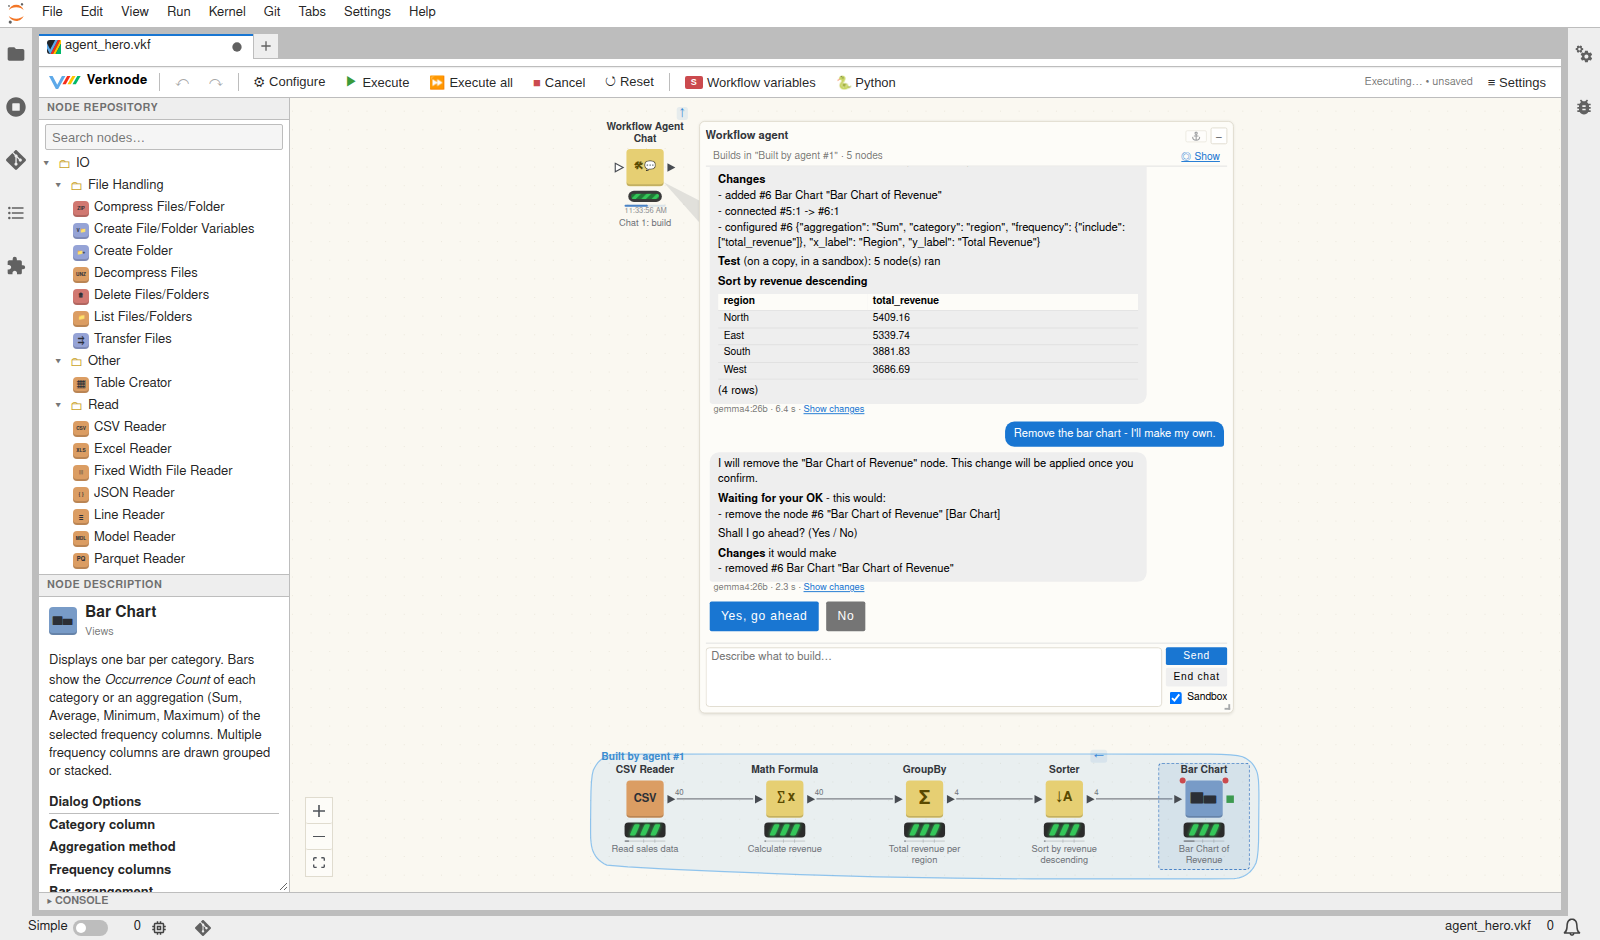
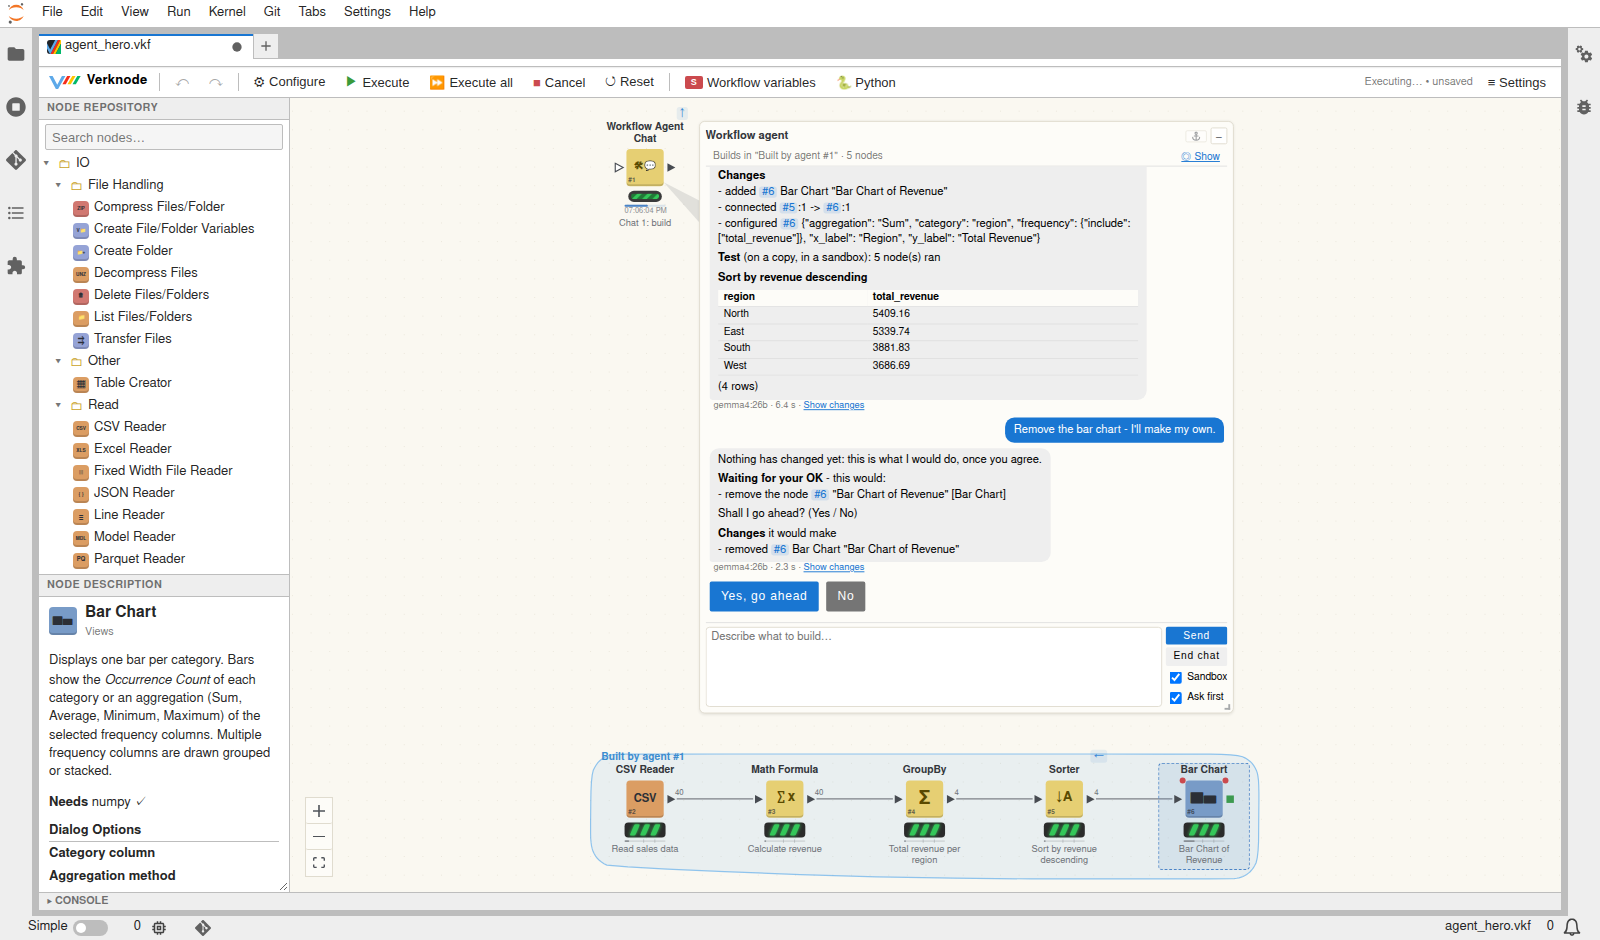
Node numbers on the canvas, and node references in chats that show the node and its data
- Each node shows its number (#id) small in the corner of its icon: chats and agents refer to nodes by it
- #id / @#id in chat messages (and Text Display) are links: hover flashes the node and shows its output in
  an inspection widget beside the chat, its tail pointing to the node; a click selects the node (moving the
  view only if it is off screen) and keeps the inspection widget
- Hero screenshots retaken with the node numbers; the Data Q&A one shows a hovered reference

Changed region(s): [[0.4375, 0.1851, 0.7812, 0.7096], [0.0312, 0.833, 0.125, 0.9564], [0.7188, 0.6479, 0.7812, 0.7404]]

diff --git a/extension/src/editor/Editor.tsx b/extension/src/editor/Editor.tsx
@@ -558,7 +558,10 @@ function EditorCanvas({ controller, settings }: { controller: WorkflowController
   const flashing = useRef<Set<string>>(new Set()); // (nodes a display points at: canvasLink.highlight)
   // inspection widgets (Inspector.tsx): the one shown while a port is hovered ("peek") and kept ones
   const [inspections, setInspections] = useState<Inspection[]>([]);
-  const inspectRef = useRef<(node: number, kind: 'in' | 'out', port: number, action: 'enter' | 'leave' | 'pin') => void>();
+  const inspectRef = useRef<
+    (node: number, kind: 'in' | 'out', port: number, action: 'enter' | 'leave' | 'pin', near?: { x: number; y: number; w: number }) => void
+  >();
+  const inspectNodeRef = useRef<(node: number | null, pin?: boolean, near?: DOMRect) => void>();
   const tails = useMemo(() => new TailStore(), []);
   // selected canvas widgets (marquee, Ctrl+click, or with their nodes unless anchored)
   const widgetSel = useMemo(() => new WidgetSelection(), []);
@@ -953,10 +956,21 @@ function EditorCanvas({ controller, settings }: { controller: WorkflowController
           .filter(id => id !== except && byNode.has(id))
           .map(id => ({ id, name: byNode.get(id)!.name, label: byNode.get(id)!.annotation }));
       },
-      highlight: ids => {
+      node: id => {
+        const n = viewRef.current?.nodes.find(x => x.id === id);
+        return n ? { id, name: n.name, label: n.annotation } : null;
+      },
+      inspect: (id, pin, near) => inspectNodeRef.current?.(id, pin, near),
+      highlight: (ids, fit = true) => {
+        const hidden = (id: number) => {
+          const el = wrapper.current?.querySelector(`.react-flow__node[data-id="${id}"]`)?.getBoundingClientRect();
+          const box = wrapper.current?.getBoundingClientRect();
+          return !el || !box || el.right < box.left || el.left > box.right || el.bottom < box.top || el.top > box.bottom;
+        };
         const want = new Set(ids.map(String));
         flashing.current = want;
-        setNodes(ns => ns.map(n => ({ ...n, selected: want.has(n.id), className: want.has(n.id) ? 'verknode-flash' : undefined })));
+        // (fit false: a hover - only the flash, the selection stays)
+        setNodes(ns => ns.map(n => ({ ...n, selected: fit ? want.has(n.id) : n.selected, className: want.has(n.id) ? 'verknode-flash' : undefined })));
         window.setTimeout(() => {
           if (flashing.current === want) {
             flashing.current = new Set();
@@ -964,7 +978,7 @@ function EditorCanvas({ controller, settings }: { controller: WorkflowController
           }
         }, 2600);
         const shown = ids.filter(id => flow.getNode(String(id)));
-        if (shown.length) {
+        if (shown.length && (fit === true || (fit === 'if-hidden' && shown.some(hidden)))) {
           void flow.fitView({ nodes: shown.map(id => ({ id: String(id) })), padding: 0.4, maxZoom: 1, duration: 500 });
         }
       }
@@ -1775,7 +1789,7 @@ function EditorCanvas({ controller, settings }: { controller: WorkflowController
     window.clearTimeout(hideTimer.current);
     hideTimer.current = window.setTimeout(() => setInspections(list => list.filter(i => i.pinned)), delay);
   };
-  inspectRef.current = (node, kind, port, action) => {
+  inspectRef.current = (node, kind, port, action, near) => {
     window.clearTimeout(peekTimer.current);
     if (action === 'leave') {
       hidePeek();
@@ -1788,10 +1802,18 @@ function EditorCanvas({ controller, settings }: { controller: WorkflowController
       return;
     }
     const here = portPoint(flow, node, kind, port);
-    // (a free spot by the port: not over nodes, canvas widgets or other inspection widgets)
-    const at = here
-      ? place(here, kind === 'out' ? 'right' : 'left', { w: INSPECT_W, h: INSPECT_H }, obstacles(flow, wrapper.current, []))
-      : { x: 0, y: 0 };
+    // (a free spot by the port - or by what points at the node, e.g. a chat: near, its box on the screen,
+    // in canvas coordinates - not over nodes, canvas widgets or other inspection widgets)
+    const taken = obstacles(flow, wrapper.current, []);
+    const size = { w: INSPECT_W, h: INSPECT_H };
+    let at = here ? place(here, kind === 'out' ? 'right' : 'left', size, taken) : { x: 0, y: 0 };
+    if (near) {
+      // left of it if that is in view, else right of it
+      const box = wrapper.current?.getBoundingClientRect();
+      const left = box ? flow.screenToFlowPosition({ x: box.left, y: box.top }).x : -Infinity;
+      const l = place({ x: near.x, y: near.y }, 'left', size, taken);
+      at = l.x + INSPECT_W <= near.x && l.x >= left ? l : place({ x: near.x + near.w, y: near.y }, 'right', size, taken);
+    }
     const same = (i: Inspection) => i.node === src.node && i.port === src.port;
     if (action === 'pin') {
       window.clearTimeout(hideTimer.current);
@@ -1814,6 +1836,21 @@ function EditorCanvas({ controller, settings }: { controller: WorkflowController
         ]),
       350
     );
+  };
+  // a display pointing at a node (a #id in a chat): a look at its first output while hovered, kept on a click
+  inspectNodeRef.current = (id, pin, near) => {
+    const info = id === null ? undefined : rawView?.nodes.find(n => n.id === id);
+    const port = info?.outPorts.find(p => !p.implicit)?.index;
+    if (id === null || !info || port === undefined) {
+      hidePeek();
+      return;
+    }
+    // (near: the box of what points at it on the screen - the widget is put beside it, where it can be seen)
+    const box = near && {
+      ...flow.screenToFlowPosition({ x: near.left, y: near.top }),
+      w: flow.screenToFlowPosition({ x: near.right, y: near.top }).x - flow.screenToFlowPosition({ x: near.left, y: near.top }).x
+    };
+    inspectRef.current?.(id, 'out', port, pin ? 'pin' : 'enter', box || undefined);
   };
   /** Kept inspection widgets for the outputs of these nodes (executed ones), right of each node. */
   const inspectNodes = (ids: number[]) => {

diff --git a/extension/src/editor/widgets/chat.tsx b/extension/src/editor/widgets/chat.tsx
@@ -395,12 +395,52 @@ function Blocks({ text }: { text: string }) {
   );
 }
 
+/**
+ * A node a message refers to (#id, @#id): hovering it makes the node flash and shows its output data
+ * (an inspection widget); a click brings the node into view and keeps the inspection widget.
+ */
+/** Where a look at a node goes: beside the canvas widget of the element (at its height). */
+const beside = (el: Element) => {
+  const dock = (el.closest('.verknode-widget-dock') ?? el).getBoundingClientRect();
+  const at = el.getBoundingClientRect();
+  return new DOMRect(dock.left, at.top - 20, dock.width, at.height);
+};
+
+function NodeChip({ text, id }: { text: string; id: number }) {
+  const link = useContext(CanvasLinkContext);
+  const node = link?.node(id);
+  if (!link || !node) {
+    return <>{text}</>;
+  }
+  return (
+    <span
+      className="verknode-node-chip"
+      role="button"
+      title={`${node.label || node.name} (#${id}) - click: select it and keep the look at its data`}
+      onMouseEnter={e => {
+        link.highlight([id], false);
+        link.inspect(id, false, beside(e.currentTarget));
+      }}
+      onMouseLeave={() => link.inspect(null)}
+      onClick={e => {
+        e.stopPropagation();
+        link.inspect(id, true, beside(e.currentTarget));
+        link.highlight([id], 'if-hidden');
+      }}
+    >
+      {text}
+    </span>
+  );
+}
+
 function Inline({ text }: { text: string }) {
-  const parts = text.split(/(`[^`]+`|\*\*[^*]+\*\*)/g);
+  const parts = text.split(/(`[^`]+`|\*\*[^*]+\*\*|(?<![\w#&])@?#\d+(?!\w))/g);
   return (
     <>
       {parts.map((p, i) =>
-        p.startsWith('`') && p.endsWith('`') && p.length > 1 ? (
+        /^@?#\d+$/.test(p) ? (
+          <NodeChip key={i} text={p} id={Number(p.replace(/^@?#/, ''))} />
+        ) : p.startsWith('`') && p.endsWith('`') && p.length > 1 ? (
           <code key={i}>{p.slice(1, -1)}</code>
         ) : p.startsWith('**') && p.endsWith('**') && p.length > 4 ? (
           <b key={i}>{p.slice(2, -2)}</b>

diff --git a/extension/style/base.css b/extension/style/base.css
@@ -363,6 +363,21 @@
   opacity: 0.55;
 }
 
+/* the node's number (#id), small at the icon's bottom left: chats and agents refer to nodes by it */
+.verknode-node-id {
+  position: absolute;
+  left: 2px;
+  bottom: 2px;
+  font-size: 7px;
+  font-weight: 600;
+  line-height: 1;
+  color: var(--vk-icon-text, #fff);
+  opacity: 0.7;
+  pointer-events: none;
+  white-space: nowrap;
+  font-variant-numeric: tabular-nums;
+}
+
 .verknode-node-badge {
   position: absolute;
   right: -7px;
@@ -3961,4 +3976,19 @@
   margin-right: 5px;
   border-radius: 50%;
   vertical-align: -1px;
+}
+
+/* a node a chat message refers to (#id): hover shows it, click brings it into view */
+.verknode-node-chip {
+  padding: 0 3px;
+  border-radius: 3px;
+  background: color-mix(in srgb, var(--jp-brand-color1) 12%, transparent);
+  color: var(--jp-brand-color1);
+  font-variant-numeric: tabular-nums;
+  cursor: pointer;
+  white-space: nowrap;
+}
+
+.verknode-node-chip:hover {
+  background: color-mix(in srgb, var(--jp-brand-color1) 24%, transparent);
 }

diff --git a/extension/src/editor/widgets/registry.ts b/extension/src/editor/widgets/registry.ts
@@ -48,8 +48,14 @@ export interface CanvasNodeRef {
 export interface CanvasLink {
   /** the nodes selected on the canvas lately - before the display was clicked (without `except`) */
   selection: (except?: number) => CanvasNodeRef[];
-  /** show these nodes: select them, bring them into view and make them flash */
-  highlight: (ids: number[]) => void;
+  /** show these nodes: select them, bring them into view and make them flash (fit 'if-hidden': move the
+   * view only if one is out of it; false: only the flash) */
+  highlight: (ids: number[], fit?: boolean | 'if-hidden') => void;
+  /** a node of the canvas by its number (#id), or null */
+  node: (id: number) => CanvasNodeRef | null;
+  /** a look at a node's output data (inspection widget) while hovered (null: gone); pin: kept; near:
+   * the screen box of what points at it (the widget goes beside it) */
+  inspect: (id: number | null, pin?: boolean, near?: DOMRect) => void;
 }
 
 export const CanvasLinkContext = React.createContext<CanvasLink | null>(null);

diff --git a/extension/src/editor/NodeView.tsx b/extension/src/editor/NodeView.tsx
@@ -397,6 +397,9 @@ export const WorkflowNode = memo(({ data, selected, positionAbsoluteX, positionA
       <div className="verknode-node-name">{n.name}</div>
       <div className="verknode-node-body">
         <NodeIcon nodeType={n.nodeType} icon={n.icon} category={n.category} />
+        <span className="verknode-node-id">
+          #{n.id}
+        </span>
         {implicitIn && (
           <PortHandle
             kind="target"

diff --git a/docs/llm.md b/docs/llm.md
@@ -162,6 +162,14 @@ box: it offers the selection, and **Tab** adds it to the message as `@#4
 @#7`. The agent then gets those nodes' details (settings, columns), so you
 can write "@#4 as a bar chart" or "why does @#9 fail?".
 
+Each node shows its number small in the corner of its icon (#4), so you can
+see which node a message means. In the chat, a node number (#7, @#7) is a
+link:
+- **hover** it: the node flashes, and an inspection widget beside the chat
+  shows its output, with its tail pointing to the node;
+- **click** it: the node is selected (and brought into view if it is off
+  screen), and the inspection widget stays.
+
 **See where it works.** The bar at the top of the chat names the agent's
 group. **◎ Show** highlights its nodes on the canvas: it selects them,
 brings them into view and makes them flash. **Show changes** under a reply
@@ -285,7 +293,9 @@ from. Nothing in the workflow changes.
 Run the workflow first; the nodes connected to it run when it starts. The
 conversation stays, as with the agent: *Resume chat* goes on with it, and
 *New chat* starts again. Tab adds the nodes selected on the canvas, so
-"@#7 which product sold least?" asks about their tables. *Guidance* tells
+"@#7 which product sold least?" asks about their tables. The node numbers
+in its answers ("from the per_region table (node #7)") are links too: hover
+one to see that table. *Guidance* tells
 it what the columns mean, the currency, and so on.
 
 ## A summary by a prompt: LLM Summarizer

diff --git a/README.md b/README.md
@@ -113,10 +113,11 @@ that takes the conversation as input:
 
 **Ask about the results**: a Data Q&A Chat answers questions about the
 workflow's tables. The model computes every number it gives with SQL over
-them, and says which node the answer comes from. An LLM Summarizer turns
+them, and says which node the answer comes from: hover the node number
+(#6) for a look at its table, click it to keep the look. An LLM Summarizer turns
 tables into a summary by a prompt, shown in a Text Display:
 
-![A Data Q&A Chat next to a sales workflow: which region did best against its target (East, 267%), North's revenue share of headlamps (60.13%), the product with the fewest units (Shoes, 24), each with a small table and its source node; above, an LLM summary for the regional managers in a Text Display](docs/images/data-chat-v1.png)
+![A Data Q&A Chat next to a sales workflow: which region did best against its target (East, 267%), North's revenue share of headlamps (60.13%), the product with the fewest units (Shoes, 24), each with a small table and its source node; the pointer on node #6 in an answer shows that node's table beside the chat; above, an LLM summary for the regional managers in a Text Display](docs/images/data-chat-v1.png)
 
 **Web services, maps and diagrams**: ask Wikipedia, OpenStreetMap, weather,
 podcast, ChEMBL, PDB, Ensembl or Gene Ontology services for every row of a

diff --git a/docs/editor.md b/docs/editor.md
@@ -36,6 +36,9 @@ Create one from the Launcher ("Workflow") or the command palette
   goes to a free spot near its port, clear of the nodes, the canvas widgets
   and the other inspection widgets where possible. It goes away when the pointer leaves the port and the widget.
   - Ctrl+click the port, or 📌 on the widget, to keep it.
+  - Node numbers in chats (#7) do the same: hover one for the node's
+    output beside the chat, click it to keep it. Each node shows its number
+    in the corner of its icon.
   - **Inspect Outputs** in a node's context menu keeps one for each output
     of the selected nodes, beside them.
   - Kept widgets can be moved by their title bar, resized and closed (×);
